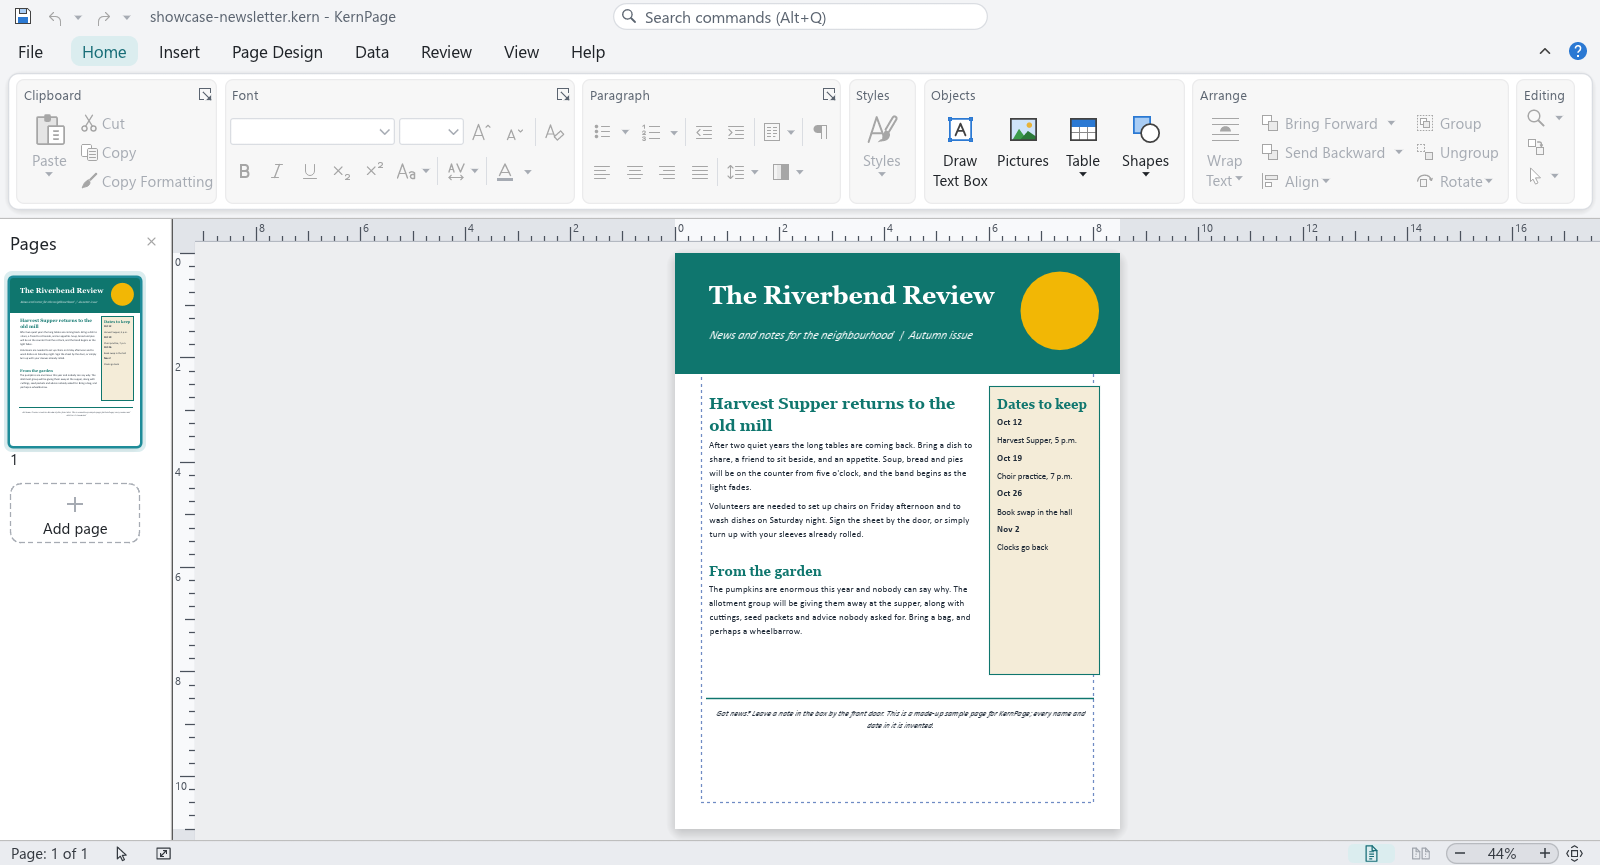
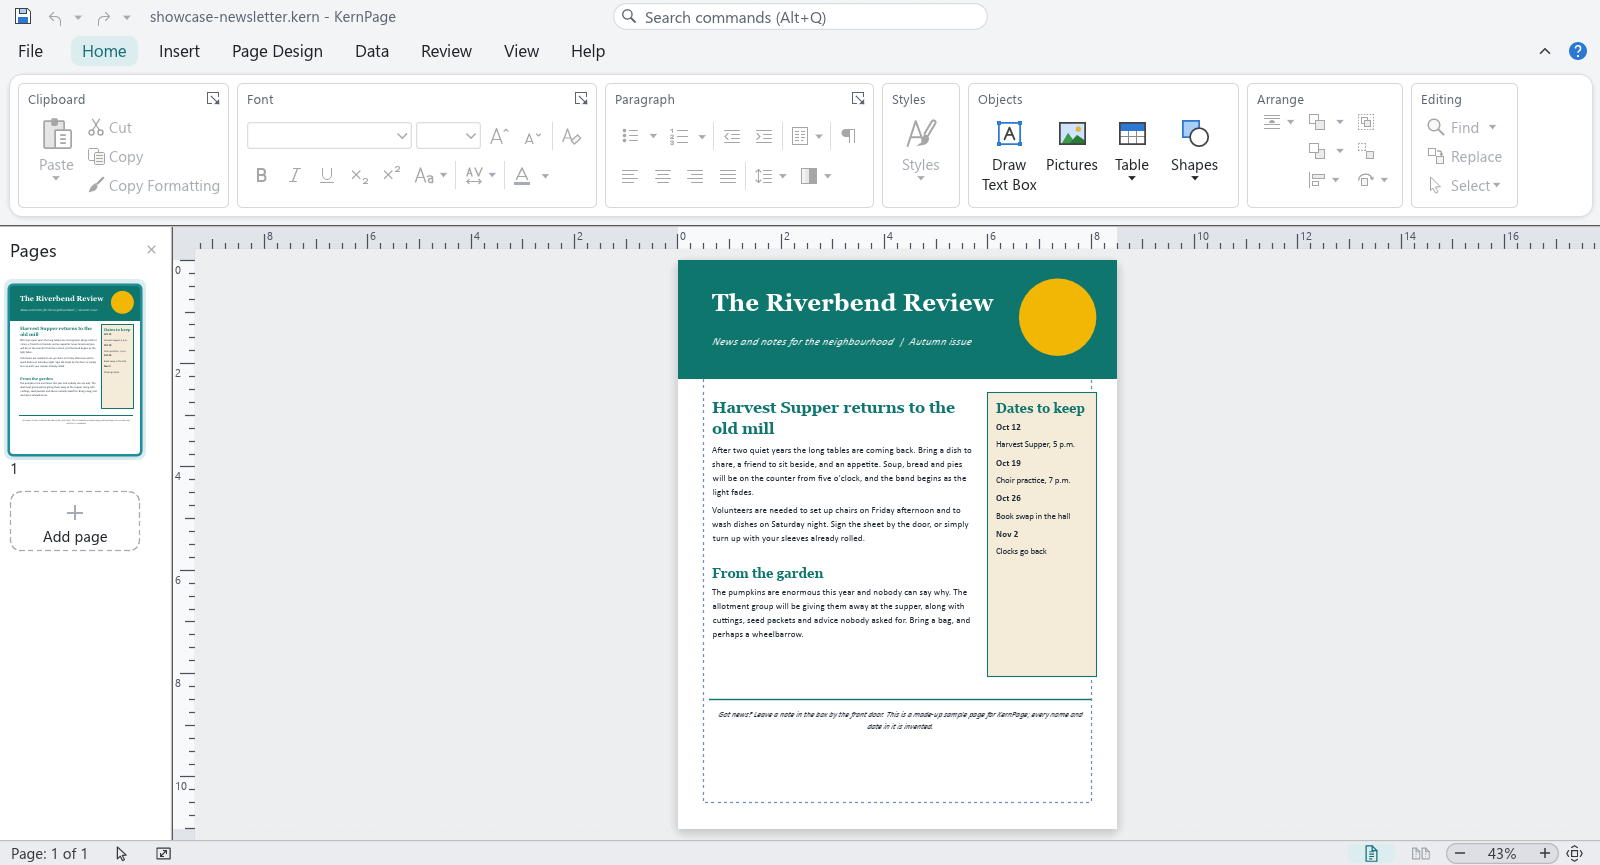
0.2.2 follow-ups: KernPage repo links, launcher date label, new screenshots (#5)
Three small follow-ups after 0.2.2:

1. **Repo links**: written links change from \jmitchell238/kernpage\ to
\jmitchell238/KernPage\ (app About page and feedback links, launcher
feed address, release tool, installer Add/Remove Programs links, docs;
16 files). The old address still redirects and GitHub URLs are not
case-sensitive, so installed copies keep working; the launcher does not
compare download links against a fixed prefix.
2. **Launcher bug (shipped in 0.2.2)**: Recent files showed \Modified
Opened today 16:14\. Now just \Opened today 16:14\. The test hook
records the date text exactly as drawn, plus a new test
\_recent_row_shows_only_the_opened_label\.
3. **Screenshots** in \docs/images/\ retaken with the 0.2.2 ribbon
(app's own \--screenshot\ mode, same size and sample as before).

Tests: full workspace suite passed after (1); launcher suite 223 passed
after (2).

🤖 Generated with [Claude Code](https://claude.com/claude-code)

diff --git a/crates/kernpage-launcher/src/feed.rs b/crates/kernpage-launcher/src/feed.rs
@@ -45,7 +45,7 @@ const TEST_PUBLIC_KEY_FILE: &str = include_str!("../tests/fixtures/test-signing.
 /// time to use another feed.
 pub const FEED_URL: &str = match option_env!("KERNPAGE_FEED_URL") {
     Some(u) => u,
-    None => "https://github.com/jmitchell238/kernpage/releases/latest/download/index.json",
+    None => "https://github.com/jmitchell238/KernPage/releases/latest/download/index.json",
 };
 
 /// Lower-case hex of a digest.
@@ -664,7 +664,7 @@ mod tests {
                 FileSpec { kind: "msi".into(), path: temp_file(&format!("{version}-x64.msi"), msi) },
                 FileSpec { kind: "setup".into(), path: temp_file(&format!("{version}-Setup.exe"), setup) },
             ],
-            base_url: format!("https://github.com/jmitchell238/kernpage/releases/download/v{version}"),
+            base_url: format!("https://github.com/jmitchell238/KernPage/releases/download/v{version}"),
             now_unix: now,
             expires_days: DEFAULT_EXPIRES_DAYS,
             keep: DEFAULT_KEEP,
@@ -685,7 +685,7 @@ mod tests {
         // MSI for a plain install, Setup.exe for a bundle install; sizes and hashes match the files.
         let msi = r.file_for(false).unwrap();
         let setup = r.file_for(true).unwrap();
-        assert!(msi.is_msi() && msi.url.starts_with("https://github.com/jmitchell238/kernpage/releases/download/v0.2.0/"));
+        assert!(msi.is_msi() && msi.url.starts_with("https://github.com/jmitchell238/KernPage/releases/download/v0.2.0/"));
         assert_eq!(setup.kind, SETUP_KIND);
         assert_eq!(msi.size, 9);
         assert_eq!(setup.sha256, hex(sha2::Sha256::digest(b"setup bytes")));
@@ -731,7 +731,7 @@ mod tests {
     #[test]
     fn production_keys_and_feed_url_are_the_real_ones() {
         assert_eq!(PRODUCTION_PUBLIC_KEYS.len(), 2, "primary + backup");
-        assert!(FEED_URL.starts_with("https://github.com/jmitchell238/kernpage/releases/latest/download/"));
+        assert!(FEED_URL.starts_with("https://github.com/jmitchell238/KernPage/releases/latest/download/"));
         assert!(FEED_URL.ends_with("/index.json"));
         // The release tool reads the same list out of this very file.
         let src = include_str!("feed.rs");

diff --git a/crates/kernpage-launcher/src/app.rs b/crates/kernpage-launcher/src/app.rs
@@ -968,8 +968,6 @@ impl App {
             } else {
                 resp.on_hover_text(row.path.to_string_lossy()).on_hover_cursor(CursorIcon::PointingHand)
             };
-            #[cfg(test)]
-            crate::testhooks::seen(|f| f.rows.push((row.name.clone(), row.folder.clone(), row.modified.clone().unwrap_or_else(|| "NOT FOUND".to_owned()), rect)));
             let fill = if resp.hovered() && !missing { p.card_hover } else { p.card };
             let stroke = if resp.has_focus() { Stroke::new(2.0, p.accent) } else { Stroke::new(1.0, p.border) };
             ui.painter().rect_filled(rect, 8.0, fill);
@@ -978,9 +976,13 @@ impl App {
             let painter = ui.painter();
             let right = rect.right() - 56.0;
             let (date_text, date_color) = match &row.modified {
-                Some(d) => (format!("Modified {d}"), p.muted),
+                // Already a full label ("Opened today 10:24"), or empty when no time is stored.
+                Some(d) => (d.clone(), p.muted),
                 None => ("NOT FOUND".to_owned(), Color32::from_rgb(0xC2, 0x4B, 0x45)),
             };
+            // Tests see the date text exactly as it is drawn.
+            #[cfg(test)]
+            crate::testhooks::seen(|f| f.rows.push((row.name.clone(), row.folder.clone(), date_text.clone(), rect)));
             let date = painter.layout_no_wrap(date_text, FontId::monospace(12.0), date_color);
             // Long names and folders are cut with "..." instead of running under the date.
             let name_w = (rect.width() - 16.0 - 56.0 - date.size().x - 16.0).max(60.0);

diff --git a/crates/kernpage/src/feedback.rs b/crates/kernpage/src/feedback.rs
@@ -3,7 +3,7 @@
 //! editor; the person reads the text and submits it on GitHub (or closes the tab).
 
 /// The project's GitHub repository (the same address the Launcher's feed uses).
-pub const REPO_URL: &str = "https://github.com/jmitchell238/kernpage";
+pub const REPO_URL: &str = "https://github.com/jmitchell238/KernPage";
 /// Donation page (Buy Me a Coffee, shared by the 238apps apps); opened only when the user clicks it.
 pub const DONATE_URL: &str = "https://buymeacoffee.com/238apps";
 
@@ -128,11 +128,11 @@ mod tests {
     #[test]
     fn the_urls_carry_the_version_and_headings() {
         let r = report_url("1.2.3", "Windows 10.0 (build 1)");
-        assert!(r.starts_with("https://github.com/jmitchell238/kernpage/issues/new?labels=bug&body="));
+        assert!(r.starts_with("https://github.com/jmitchell238/KernPage/issues/new?labels=bug&body="));
         assert!(r.contains("KernPage%20version%3A%201.2.3%0AWindows%3A%20Windows%2010.0%20%28build%201%29"), "{r}");
         assert!(r.contains("Steps%20to%20reproduce"));
         let i = idea_url("1.2.3");
-        assert!(i.starts_with("https://github.com/jmitchell238/kernpage/issues/new?labels=idea&body="));
+        assert!(i.starts_with("https://github.com/jmitchell238/KernPage/issues/new?labels=idea&body="));
         assert!(i.contains("1.2.3") && i.contains("Why%20would%20it%20help"));
         assert!(!r.contains(' ') && !i.contains(' ') && !r.contains('\n'));
     }

diff --git a/crates/kernpage-release/src/lib.rs b/crates/kernpage-release/src/lib.rs
@@ -15,7 +15,7 @@ use std::path::{Path, PathBuf};
 pub type Result<T> = std::result::Result<T, String>;
 
 pub const APP_ID: &str = "kernpage";
-pub const DEFAULT_REPO: &str = "jmitchell238/kernpage";
+pub const DEFAULT_REPO: &str = "jmitchell238/KernPage";
 /// Two years: a release index must keep working through a long quiet stretch (see docs/RELEASING.md).
 pub const DEFAULT_EXPIRES_DAYS: u64 = 730;
 pub const DEFAULT_KEEP: usize = 10;
@@ -143,9 +143,9 @@ fn default_item() -> Value {
     json!({
         "id": APP_ID, "kind": "app", "name": "KernPage",
         "tagline": "Desktop publishing for bulletins, newsletters and flyers. Opens Publisher (.pub) files too.",
-        "website": "https://github.com/jmitchell238/kernpage",
-        "repo": "https://github.com/jmitchell238/kernpage",
-        "releases_url": "https://github.com/jmitchell238/kernpage/releases",
+        "website": "https://github.com/jmitchell238/KernPage",
+        "repo": "https://github.com/jmitchell238/KernPage",
+        "releases_url": "https://github.com/jmitchell238/KernPage/releases",
         "license": "GPL-3.0-only",
         "features": [
             {"title": "Opens Publisher files", "text": "Reads .pub files and shows text, shapes, pictures, tables, groups and linked text boxes."},

diff --git a/crates/kernpage/src/ui_tests/backstage.rs b/crates/kernpage/src/ui_tests/backstage.rs
@@ -1210,15 +1210,15 @@ fn the_about_page_shows_version_licence_privacy_and_independence() {
     assert!(has_label_containing(&ui, "Opens and saves KernPage (.kern) and Microsoft Publisher (.pub) files."));
     crate::feedback::test_os::take_opened();
     ui.click_ribbon("link:Website: https://238apps.com/kernpage");
-    ui.click_ribbon("link:Source code: https://github.com/jmitchell238/kernpage");
-    ui.click_ribbon("link:Report a problem: https://github.com/jmitchell238/kernpage/issues");
+    ui.click_ribbon("link:Source code: https://github.com/jmitchell238/KernPage");
+    ui.click_ribbon("link:Report a problem: https://github.com/jmitchell238/KernPage/issues");
     ui.click_ribbon("link:Buy me a RedBull: https://buymeacoffee.com/238apps");
     assert_eq!(
         crate::feedback::test_os::take_opened(),
         [
             "https://238apps.com/kernpage",
-            "https://github.com/jmitchell238/kernpage",
-            "https://github.com/jmitchell238/kernpage/issues",
+            "https://github.com/jmitchell238/KernPage",
+            "https://github.com/jmitchell238/KernPage/issues",
             "https://buymeacoffee.com/238apps"
         ]
     );

diff --git a/crates/kernpage-launcher/src/ui_tests/cards.rs b/crates/kernpage-launcher/src/ui_tests/cards.rs
@@ -216,6 +216,19 @@ fn recent_list_renders_rows_and_not_found() {
 }
 
 #[test]
+fn a_recent_row_shows_only_the_opened_label() {
+    let env = TestEnv::new();
+    let a = env.pub_file("alpha.pub");
+    std::fs::create_dir_all(env.recent.parent().unwrap()).unwrap();
+    let now = std::time::SystemTime::now().duration_since(std::time::UNIX_EPOCH).unwrap().as_secs();
+    std::fs::write(env.recent.with_file_name("recent-times.txt"), format!("{now}\t{}\n", a.to_string_lossy())).unwrap();
+    let ui = TestUi::with(Setup::new().env(&env).recent(&[a]));
+    let date = &ui.rows()[0].2;
+    assert!(date.starts_with("Opened today "), "{date}");
+    assert!(!date.contains("Modified"), "{date}");
+}
+
+#[test]
 fn recent_empty_state_greys_clear_list() {
     let ui = TestUi::start();
     assert!(ui.rows().is_empty());

diff --git a/crates/kernpage/src/backstage.rs b/crates/kernpage/src/backstage.rs
@@ -1116,8 +1116,8 @@ fn about_page(ui: &mut Ui) {
         section_title(ui, "Links");
         for (label, url) in [
             ("Website: https://238apps.com/kernpage", "https://238apps.com/kernpage"),
-            ("Source code: https://github.com/jmitchell238/kernpage", crate::feedback::REPO_URL),
-            ("Report a problem: https://github.com/jmitchell238/kernpage/issues", "https://github.com/jmitchell238/kernpage/issues"),
+            ("Source code: https://github.com/jmitchell238/KernPage", crate::feedback::REPO_URL),
+            ("Report a problem: https://github.com/jmitchell238/KernPage/issues", "https://github.com/jmitchell238/KernPage/issues"),
         ] {
             if green_link(ui, label) {
                 crate::feedback::open_url(url);

diff --git a/crates/kernpage/src/ui_tests/ribbon_other.rs b/crates/kernpage/src/ui_tests/ribbon_other.rs
@@ -369,7 +369,7 @@ fn online_pictures_is_greyed_with_its_own_tip() {
     assert_eq!(b.tip, "Coming soon: search free-to-use photo sites and insert a picture.");
 }
 
-const REPO_ISSUES: &str = "https://github.com/jmitchell238/kernpage/issues/new?";
+const REPO_ISSUES: &str = "https://github.com/jmitchell238/KernPage/issues/new?";
 
 #[test]
 fn help_report_a_problem_and_suggest_an_idea_are_enabled_with_tooltips() {

diff --git a/docs/RELEASING.md b/docs/RELEASING.md
@@ -29,7 +29,7 @@ launcher's update feed is two assets of the newest release.
    Actions tab. It then signs `index.json` / `index.json.minisig`, creates the release as a draft with
    `KernPage-X.Y.Z-x64.msi`, `KernPage-X.Y.Z-Setup.exe`, the index and its signature, and
    publishes it as "latest".
-6. Check: `https://github.com/jmitchell238/kernpage/releases/latest/download/index.json` downloads, and
+6. Check: `https://github.com/jmitchell238/KernPage/releases/latest/download/index.json` downloads, and
    a launcher offers the new version.
 
 **Dry run (no publishing):** Actions > release > Run workflow. It builds and tests, then signs the feed with a
@@ -40,7 +40,7 @@ to prove the toolchain setup (GNU Rust + MSYS2 gcc + WiX 5.0.2) works on the run
 ## How the feed works
 
 - `FEED_URL` in `crates/kernpage-launcher/src/feed.rs` is
-  `https://github.com/jmitchell238/kernpage/releases/latest/download/index.json`; the signature is
+  `https://github.com/jmitchell238/KernPage/releases/latest/download/index.json`; the signature is
   fetched from `.../index.json.minisig`. GitHub redirects both to its HTTPS asset hosts; the launcher follows
   redirects (HTTPS only, enforced for redirects too) and does not trust the host: the minisign signature, the
   SHA-256, the exact size and the per-file signature are what is trusted.
@@ -102,7 +102,7 @@ A leaked key alone cannot push a malicious update: the launcher only reads the f
 URL and downloads over HTTPS, so an attacker would also need write access to the repository (or to break TLS).
 Still, act at once:
 
-1. Delete the secret: `gh secret delete KERNPAGE_SIGNING_KEY --env release --repo jmitchell238/kernpage`, and
+1. Delete the secret: `gh secret delete KERNPAGE_SIGNING_KEY --env release --repo jmitchell238/KernPage`, and
    check the repository's collaborators, tokens and recent releases.
 2. On a trusted machine, sign a release with the BACKUP key (installed launchers trust it): set
    `KERNPAGE_SIGNING_KEY` to the backup key text and `KERNPAGE_SIGNING_KEY_PASSWORD` to its password and run

diff --git a/README.md b/README.md
@@ -80,7 +80,7 @@ date in it is made up.
 ## Download and install
 
 Download **`KernPage-<version>-Setup.exe`** from the
-[latest release](https://github.com/jmitchell238/kernpage/releases/latest) and run it. It installs just
+[latest release](https://github.com/jmitchell238/KernPage/releases/latest) and run it. It installs just
 for you, needs no administrator rights, and puts KernPage and the KernPage Launcher in the Start menu.
 KernPage shows up under **Open with** for `.pub` files and never takes over double-click from another program.
 Windows will warn about an unknown publisher the first time, because KernPage isn't code-signed yet;
@@ -132,7 +132,7 @@ To regenerate the sample newsletter: `cargo run -p kernpage-core --example make_
 
 ## Project status
 
-Early development: version 0.2.2 is released (see the [latest release](https://github.com/jmitchell238/kernpage/releases/latest) and [docs/release-notes/0.2.2.md](docs/release-notes/0.2.2.md)). See
+Early development: version 0.2.2 is released (see the [latest release](https://github.com/jmitchell238/KernPage/releases/latest) and [docs/release-notes/0.2.2.md](docs/release-notes/0.2.2.md)). See
 [ROADMAP.md](ROADMAP.md) for what is done and what is next, and [docs/FEATURES.md](docs/FEATURES.md)
 for the feature-by-feature list. Contributions are welcome: see [CONTRIBUTING.md](CONTRIBUTING.md).
 Security reports: [SECURITY.md](SECURITY.md). Privacy: [PRIVACY.md](PRIVACY.md).
@@ -161,7 +161,7 @@ Reporting problems and sharing ideas helps just as much.
 KernPage is licensed under the [GNU General Public License, version 3 only](LICENSE) (GPL-3.0-only).
 
 Versions up to and including 0.2.0 were released under MIT OR Apache-2.0 and remain available under those
-terms at the [v0.2.0 tag](https://github.com/jmitchell238/kernpage/tree/v0.2.0).
+terms at the [v0.2.0 tag](https://github.com/jmitchell238/KernPage/tree/v0.2.0).
 
 Contributions are accepted under the GPL-3.0 and the [Contributor Licence Agreement](CLA.md); see
 [CONTRIBUTING.md](CONTRIBUTING.md).

diff --git a/ROADMAP.md b/ROADMAP.md
@@ -166,7 +166,7 @@ These ideas are catalogued, with issues, in the "Beyond Publisher" and "Launcher
 
 ## Releases
 
-**0.2.2 is released** on [GitHub](https://github.com/jmitchell238/kernpage/releases/latest): fixes for desktop shortcuts after updates, a sharper ribbon, Recent dates that match the list order, a backup interface font and the new logo ([`docs/release-notes/0.2.2.md`](docs/release-notes/0.2.2.md)).
+**0.2.2 is released** on [GitHub](https://github.com/jmitchell238/KernPage/releases/latest): fixes for desktop shortcuts after updates, a sharper ribbon, Recent dates that match the list order, a backup interface font and the new logo ([`docs/release-notes/0.2.2.md`](docs/release-notes/0.2.2.md)).
 
 0.2.1 moved KernPage to the GPL-3.0 licence (with a contributor licence agreement, see [CLA.md](CLA.md)) and to the fonts that come with Windows for its own text. Versions up to and including 0.2.0 stay available under MIT OR Apache-2.0 at the `v0.2.0` tag. See [`docs/release-notes/0.2.1.md`](docs/release-notes/0.2.1.md).
 

diff --git a/INSTALL.md b/INSTALL.md
@@ -5,7 +5,7 @@ rights, because KernPage installs just for you, and you don't need an internet c
 
 ## 1. Download the installer
 
-Go to the **[latest release](https://github.com/jmitchell238/kernpage/releases/latest)** and download
+Go to the **[latest release](https://github.com/jmitchell238/KernPage/releases/latest)** and download
 **`KernPage-<version>-Setup.exe`** (for example `KernPage-0.2.0-Setup.exe`).
 
 You can ignore the other files on that page:
@@ -94,6 +94,6 @@ touched. To remove your settings too, delete the `%APPDATA%\KernPage` folder aft
 
 ## Problems?
 
-Report a problem at [github.com/jmitchell238/kernpage/issues](https://github.com/jmitchell238/kernpage/issues)
+Report a problem at [github.com/jmitchell238/KernPage/issues](https://github.com/jmitchell238/KernPage/issues)
 or from **File > Feedback** in KernPage. For silent installs and other details for IT departments, see
 [packaging/windows/INSTALLATION.md](packaging/windows/INSTALLATION.md).
